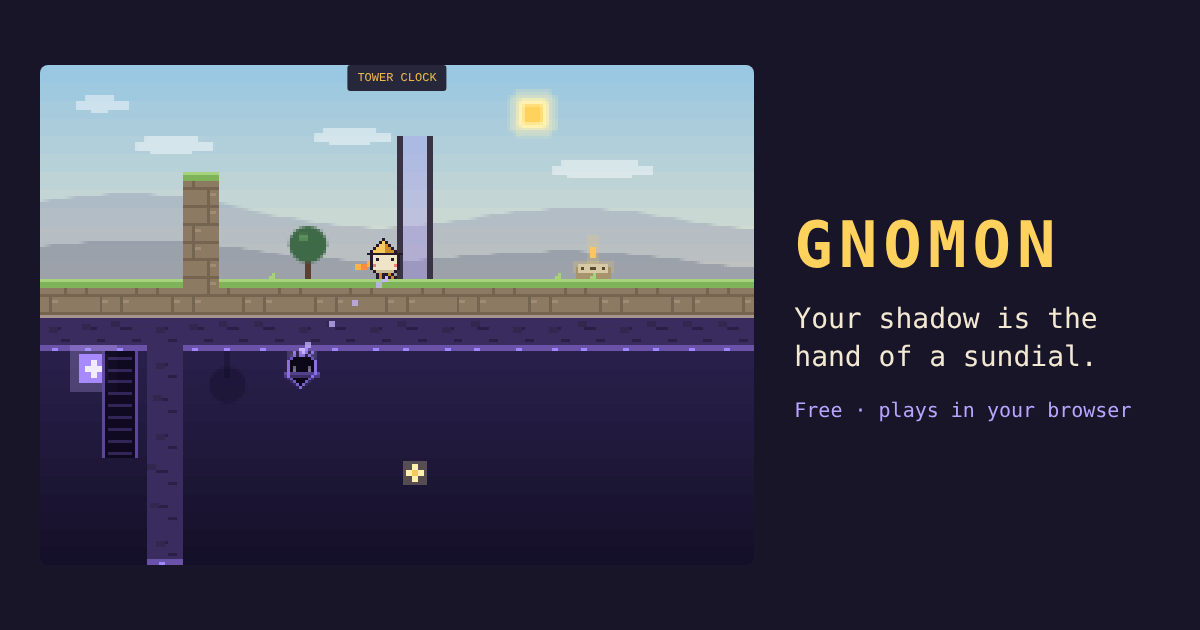
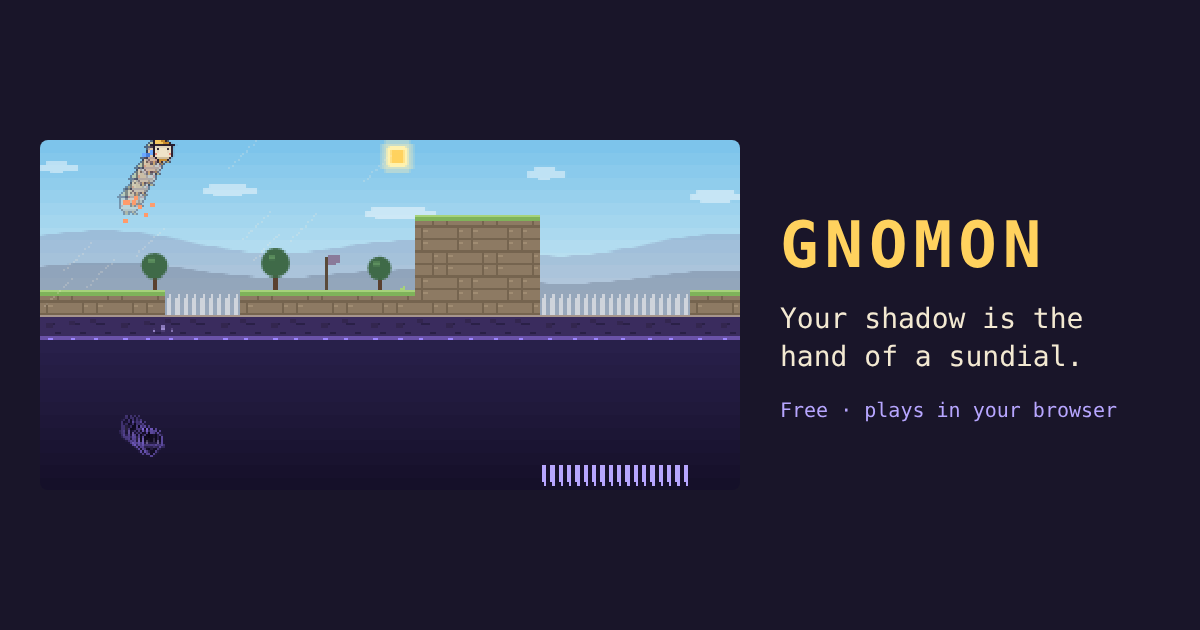
Update v3 preview (loop 34)
Claude-Session: https://claude.ai/code/session_01RoxzoFS1Cw9dV4f2r2z2jg

diff --git a/v3/index.html b/v3/index.html
@@ -1095,6 +1095,7 @@ function assist() {
     <label class="toggle"><input type="checkbox" id="aCalm" ${a.calm ? 'checked' : ''}> Reduce motion (no shake, flashes, wipes or spin animation)</label>
     <label class="toggle"><input type="checkbox" id="aWait" ${a.waitToggle ? 'checked' : ''}> Tap ⧗ to start and stop time (instead of holding)</label>
     <label class="toggle"><input type="checkbox" id="aSwipe" ${a.noSwipe ? '' : 'checked'}> Swipe the game screen to dash (phones)</label>
+    <label class="toggle"><input type="checkbox" id="aUpJump" ${a.upJump ? 'checked' : ''}> Up on the d-pad also jumps</label>
     <label class="toggle"><input type="checkbox" id="aLefty" ${a.lefty ? 'checked' : ''}> Left-handed buttons (actions on the left, movement on the right)</label>
     <div class="row"><button class="btn" id="aKeys">Keyboard keys</button><button class="btn primary" id="aDone">Done</button></div>`);
   document.querySelectorAll('[data-sp]').forEach(b => b.onclick = () => { a.speed = +b.dataset.sp; persist(); assist(); });
@@ -1102,6 +1103,7 @@ function assist() {
   $('aCalm').onchange = e => { a.calm = e.target.checked; persist(); };
   $('aWait').onchange = e => { a.waitToggle = e.target.checked; keys.w = 0; persist(); };
   $('aSwipe').onchange = e => { a.noSwipe = !e.target.checked; persist(); };
+  $('aUpJump').onchange = e => { a.upJump = e.target.checked; persist(); };
   $('aLefty').onchange = e => { a.lefty = e.target.checked; document.body.classList.toggle('lefty', a.lefty); persist(); };
   $('aInv').onchange = e => { a.inv = e.target.checked; L.invincible = a.inv; persist(); };
   $('aDone').onclick = menu; $('aKeys').onclick = keysCard;
@@ -1756,7 +1758,7 @@ document.querySelectorAll('.ctl').forEach(b => {
 // ---- d-pad: slide a thumb anywhere on it; the angle from the centre gives 8 directions (left/right move, up/down aim) ----
 { const pad = $('dpad'), knob = pad.querySelector('b'); let pid = null;
   let lastDir = '';
-  const set = (l, r, u, d) => { const dir = '' + (+!!l) + (+!!r) + (+!!u) + (+!!d); if (dir !== lastDir && dir !== '0000') { try { navigator.vibrate && navigator.vibrate(6); } catch (_) {} } lastDir = dir; keys.l = l ? 1 : 0; keys.r = r ? 1 : 0; keys.u = u ? 1 : 0; keys.dn = d ? 1 : 0;
+  const set = (l, r, u, d) => { const dir = '' + (+!!l) + (+!!r) + (+!!u) + (+!!d); if (dir !== lastDir && dir !== '0000') { try { navigator.vibrate && navigator.vibrate(6); } catch (_) {} } lastDir = dir; if (save.assist && save.assist.upJump) { if (u && !keys.u) jumpEdge = true; keys.j = u ? 1 : 0; } keys.l = l ? 1 : 0; keys.r = r ? 1 : 0; keys.u = u ? 1 : 0; keys.dn = d ? 1 : 0;
     pad.querySelector('.l').classList.toggle('on', !!l); pad.querySelector('.r').classList.toggle('on', !!r); pad.querySelector('.u').classList.toggle('on', !!u); pad.querySelector('.d').classList.toggle('on', !!d); };
   const read = e => { const r = pad.getBoundingClientRect(), dx = e.clientX - (r.left + r.width / 2), dy = e.clientY - (r.top + r.height / 2), m = Math.hypot(dx, dy);
     if (m < r.width * 0.12) { set(0, 0, 0, 0); knob.style.transform = ''; return; }
